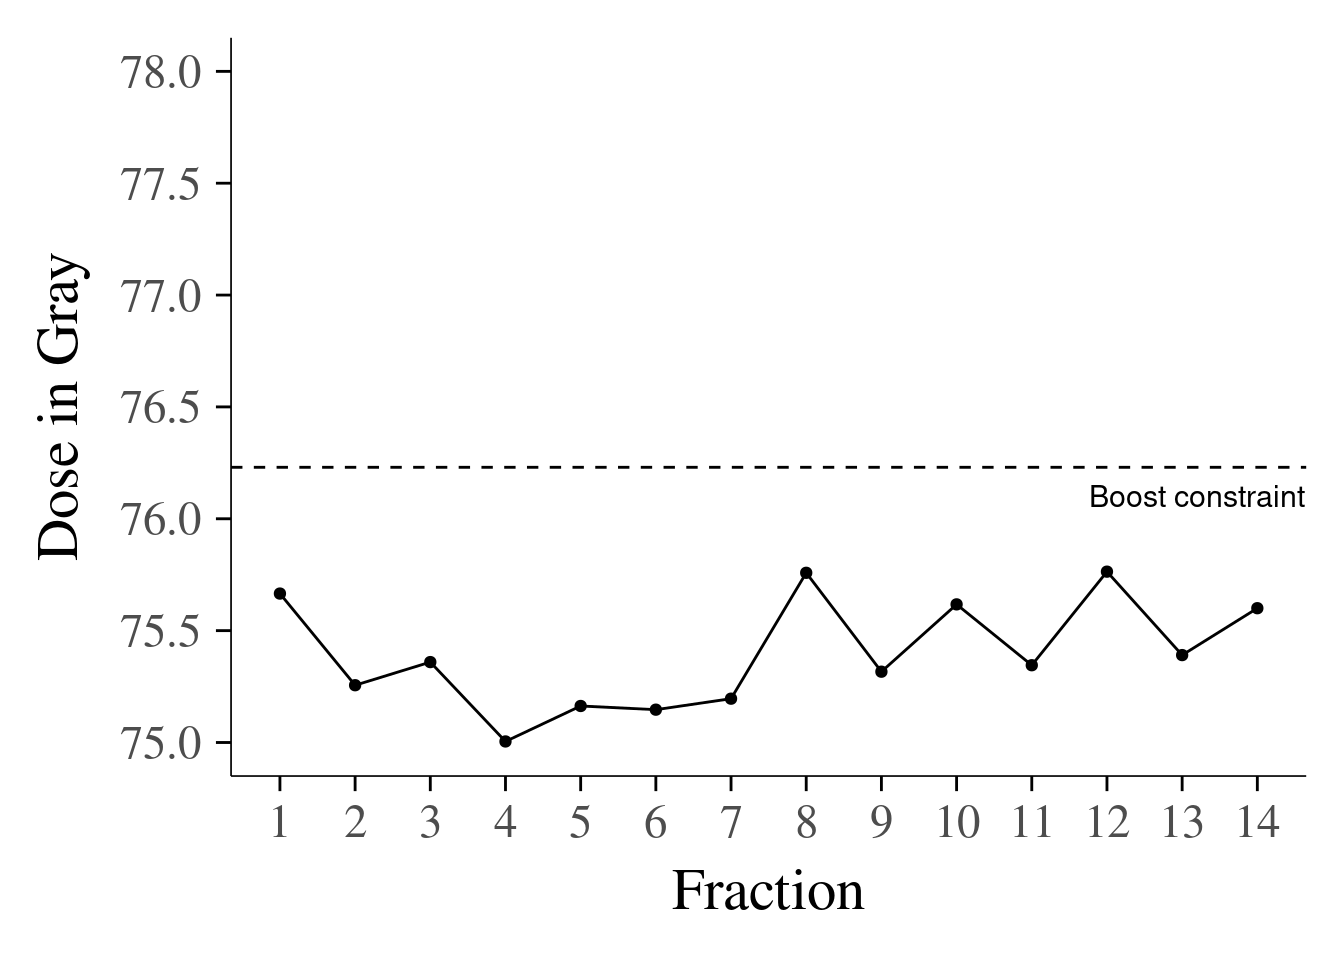
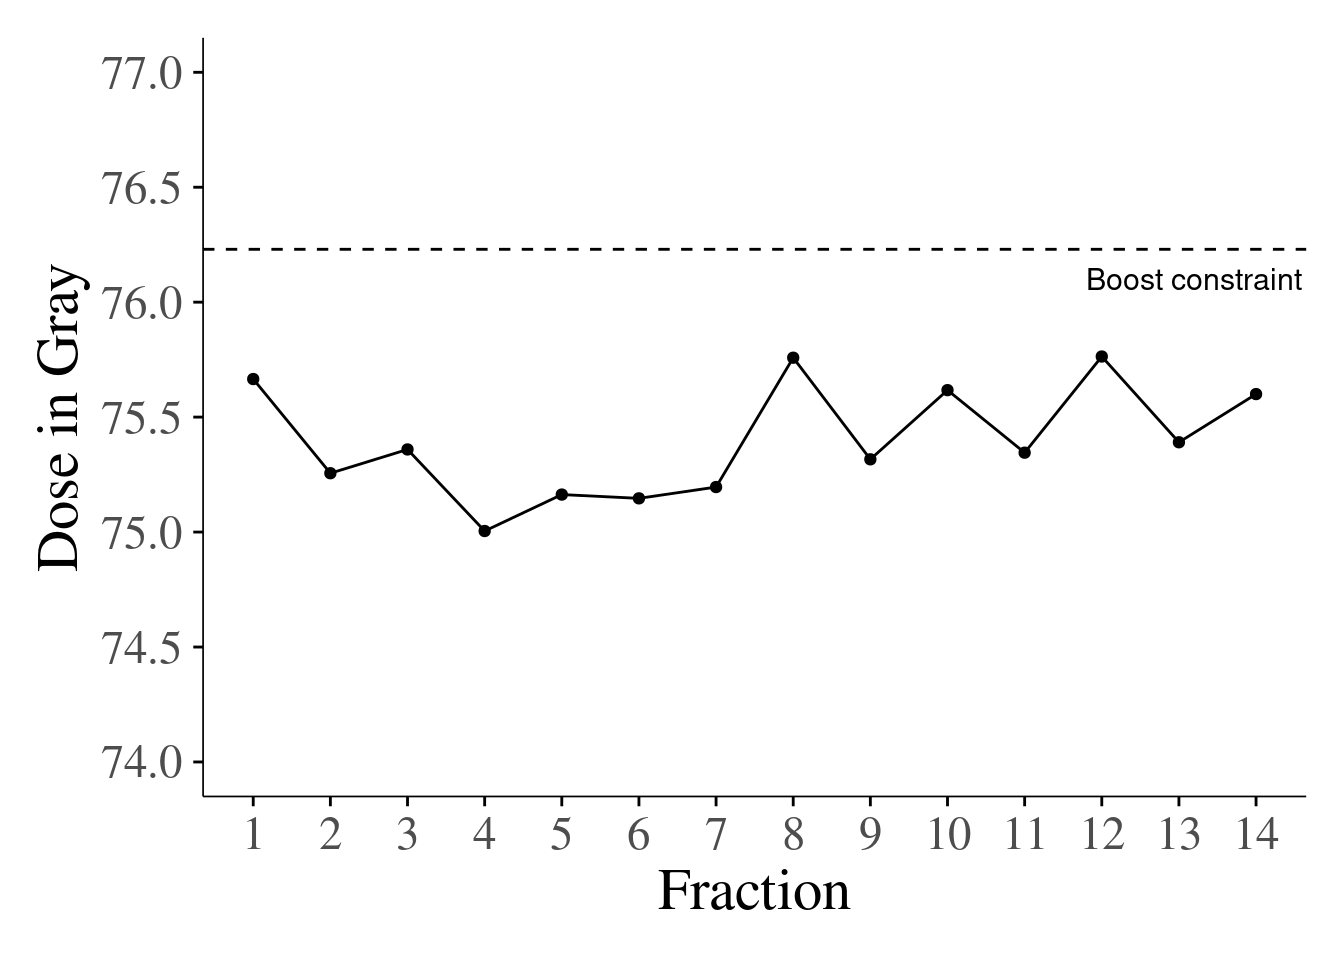
Build site.

diff --git a/docs/ggplot2.html b/docs/ggplot2.html
@@ -507,16 +507,16 @@ This reproducible <a href="http://rmarkdown.rstudio.com">R Markdown</a> analysis
 <div class="panel panel-default">
 <div class="panel-heading">
 <p class="panel-title">
-<a data-toggle="collapse" data-parent="#workflowr-checks" href="#strongRepositoryversionstrongahrefhttpsgithubcomdssrttnTesttree578e056fc1a4518eccc6d2c8a14c831186d92730targetblank578e056a"> <span class="glyphicon glyphicon-ok text-success" aria-hidden="true"></span> <strong>Repository version:</strong> <a href="https://github.com/dssrttn/Test/tree/578e056fc1a4518eccc6d2c8a14c831186d92730" target="_blank">578e056</a> </a>
+<a data-toggle="collapse" data-parent="#workflowr-checks" href="#strongRepositoryversionstrongahrefhttpsgithubcomdssrttnTesttreed54943dde2f0acec44d6493f10d2a4832fb9c636targetblankd54943da"> <span class="glyphicon glyphicon-ok text-success" aria-hidden="true"></span> <strong>Repository version:</strong> <a href="https://github.com/dssrttn/Test/tree/d54943dde2f0acec44d6493f10d2a4832fb9c636" target="_blank">d54943d</a> </a>
 </p>
 </div>
[2 lines of base64/hex data omitted]
 <div class="panel-body">
 <p>
 Great! You are using Git for version control. Tracking code development and connecting the code version to the results is critical for reproducibility.
 </p>
 <p>
-The results in this page were generated with repository version <a href="https://github.com/dssrttn/Test/tree/578e056fc1a4518eccc6d2c8a14c831186d92730" target="_blank">578e056</a>. See the <em>Past versions</em> tab to see a history of the changes made to the R Markdown and HTML files.
+The results in this page were generated with repository version <a href="https://github.com/dssrttn/Test/tree/d54943dde2f0acec44d6493f10d2a4832fb9c636" target="_blank">d54943d</a>. See the <em>Past versions</em> tab to see a history of the changes made to the R Markdown and HTML files.
 </p>
 <p>
 Note that you need to be careful to ensure that all relevant files for the analysis have been committed to Git prior to generating the results (you can use <code>wflow_publish</code> or <code>wflow_git_commit</code>). workflowr only checks the R Markdown file, but you know if there are other scripts or data files that it depends on. Below is the status of the Git repository when the results were generated:
@@ -531,11 +531,7 @@ Ignored files:
 Untracked files:
     Untracked:  README.html
     Untracked:  analysis/ggpubr.Rmd
-    Untracked:  data/.~lock.DIL_1.csv#
     Untracked:  data/DIL_1.csv
-
-Unstaged changes:
-    Modified:   analysis/past.Rmd
 
 </code></pre>
 <p>
@@ -574,6 +570,40 @@ Message
 </tr>
 </thead>
 <tbody>
+<tr>
+<td>
+Rmd
+</td>
+<td>
+<a href="https://github.com/dssrttn/Test/blob/d54943dde2f0acec44d6493f10d2a4832fb9c636/analysis/ggplot2.Rmd" target="_blank">d54943d</a>
+</td>
+<td>
+Mein Vorname
+</td>
+<td>
+2020-06-30
+</td>
+<td>
+Anpassung Graphen hoehe weite
+</td>
+</tr>
+<tr>
+<td>
+html
+</td>
+<td>
+<a href="https://rawcdn.githack.com/dssrttn/Test/47044b8fa012b037aa4f23d1d3b75748c2bec084/docs/ggplot2.html" target="_blank">47044b8</a>
+</td>
+<td>
+Mein Vorname
+</td>
+<td>
+2020-06-30
+</td>
+<td>
+Build site.
+</td>
+</tr>
 <tr>
 <td>
 Rmd
